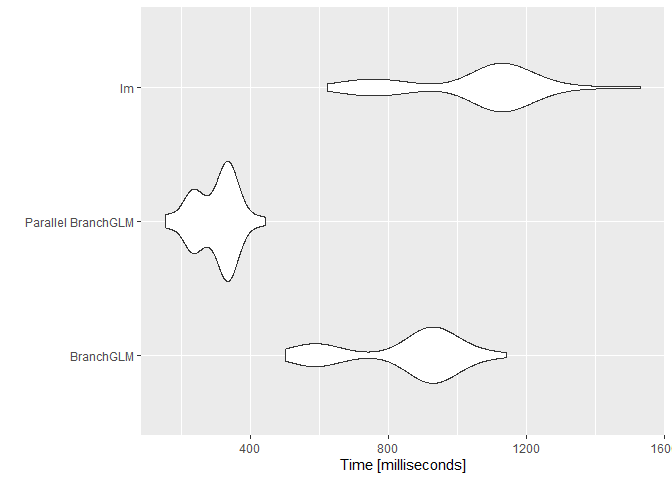
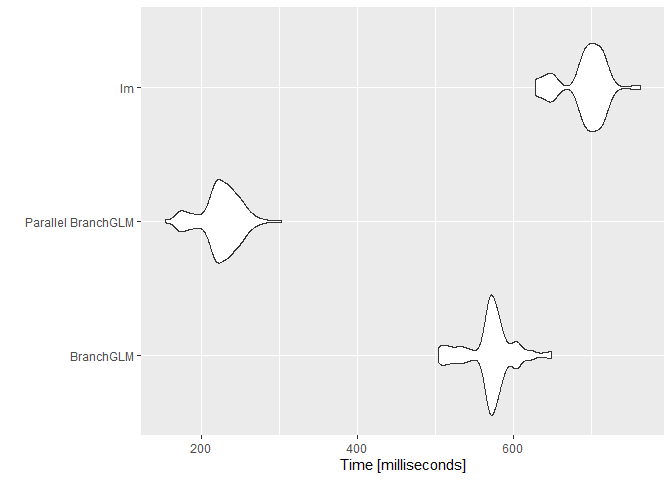
Updating for 1.1.0

diff --git a/README.md b/README.md
@@ -146,7 +146,7 @@ system.time(BranchVS <- VariableSelection(y ~ ., data = df,
 ```
 
     ##    user  system elapsed 
-    ##    0.43    0.00    0.42
+    ##    0.27    0.00    0.28
 
 ``` r
 Xy <- cbind(df[,-1], df[,1])
@@ -156,7 +156,7 @@ system.time(BestVS <- bestglm(Xy, family = binomial(), IC = "AIC", TopModels = 1
 ```
 
     ##    user  system elapsed 
-    ##  183.67    0.28  184.60
+    ##  187.23    0.33  187.61
 
 ### Checking results
 
@@ -171,10 +171,12 @@ all(names(coef(BranchVS$finalmodel)) == names(coef(BestVS$BestModel)))
 The branch and bound method can be many times faster than an exhaustive
 search and is still guaranteed to find the optimal model.
 
-### Parallel computation
+## Parallel computation
 
 Parallel computation can be used to greatly speed up the branch and
 bound algorithm, especially when the number of variables is large.
+
+### Non-parallel time
 
 ``` r
 set.seed(871980)
@@ -188,7 +190,9 @@ system.time(BranchVS <- VariableSelection(y ~ ., data = df,
 ```
 
     ##    user  system elapsed 
-    ##  169.25    0.06  169.68
+    ##  210.00    0.02  210.06
+
+### Parallel time
 
 ``` r
 system.time(ParBranchVS <- VariableSelection(y ~ ., data = df, 
@@ -198,10 +202,14 @@ system.time(ParBranchVS <- VariableSelection(y ~ ., data = df,
 ```
 
     ##    user  system elapsed 
-    ##  287.37    0.99   36.87
+    ##  363.95    0.75   44.87
+
+### Checking results
 
 ``` r
 all(names(coef(BranchVS$finalmodel)) == names(coef(ParBranchVS$finalmodel)))
 ```
 
     ## [1] TRUE
+
+They both give the same results

diff --git a/cran-comments.md b/cran-comments.md
@@ -1,4 +1,4 @@
 BranchGLM
 ================
 
-This is a resubmission that fixes documentation issues.
+Updating package to version 1.1.0
